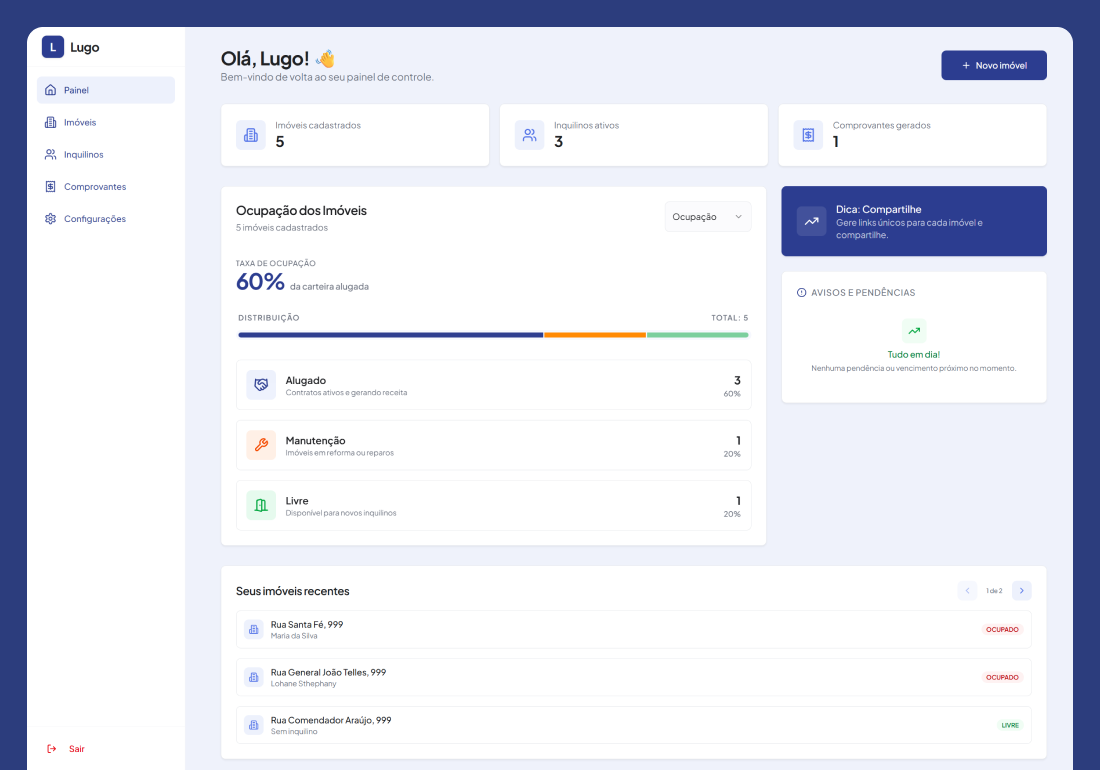
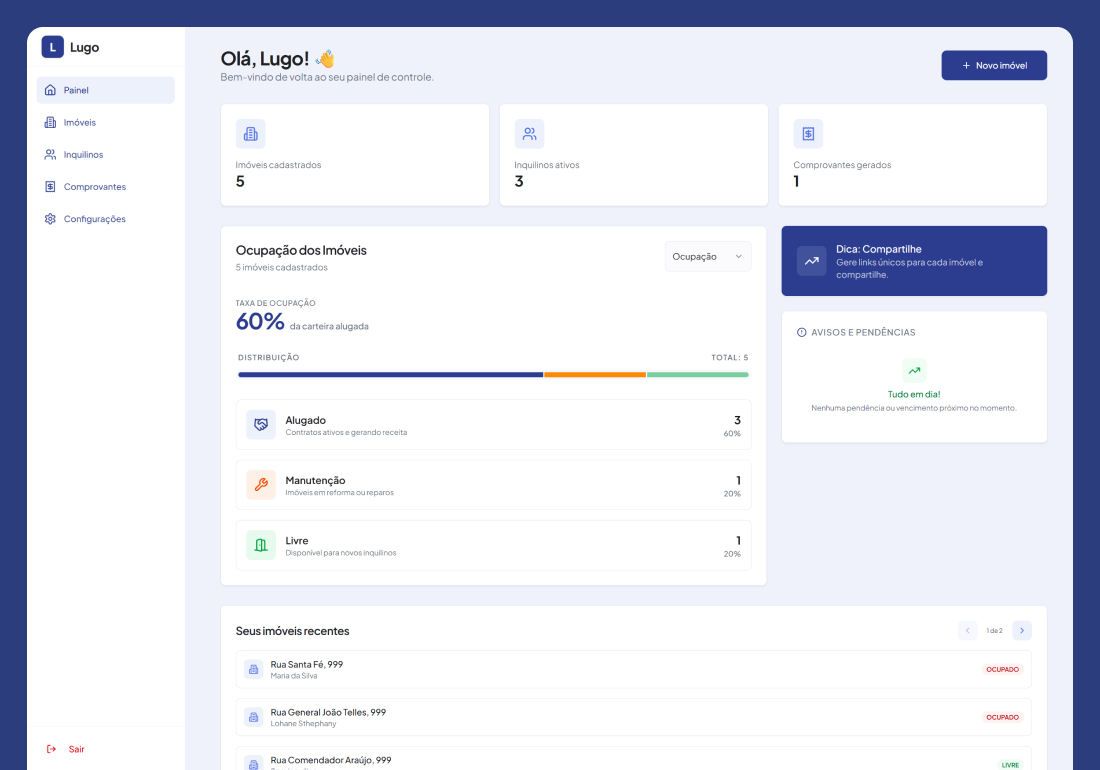
design: ajustado componentes de dashboard

diff --git a/src/components/dashboard/StatsCards.tsx b/src/components/dashboard/StatsCards.tsx
@@ -1,0 +1,136 @@
+"use client";
+
+import * as React from "react";
+import { cn } from "@/lib/utils";
+
+import {
+    Users,
+    Home,
+    FileText,
+    Building2,
+    Receipt
+} from "lucide-react";
+import { Card, CardContent } from "@/components/ui/card";
+import Link from "next/link";
+import {
+    Carousel,
+    CarouselContent,
+    CarouselItem,
+    type CarouselApi,
+} from "@/components/ui/carousel";
+
+interface StatsCardsProps {
+    stats: {
+        totalImoveis: number;
+        inquilinosAtivos: number;
+        comprovantesGerados: number;
+    }
+}
+
+export default function StatsCards({ stats }: StatsCardsProps) {
+    const statsData = [
+        { 
+            label: "Imóveis cadastrados", 
+            value: stats.totalImoveis.toString(), 
+            icon: Building2, 
+            href: "/dashboard/imoveis" 
+        },
+        { 
+            label: "Inquilinos ativos", 
+            value: stats.inquilinosAtivos.toString(), 
+            icon: Users, 
+            href: "/dashboard/inquilinos" 
+        },
+        { 
+            label: "Comprovantes gerados", 
+            value: stats.comprovantesGerados.toString(), 
+            icon: Receipt, 
+            href: "/dashboard/comprovantes" 
+        },
+    ];
+
+    const [api, setApi] = React.useState<CarouselApi>();
+    const [canScrollPrev, setCanScrollPrev] = React.useState(false);
+    const [canScrollNext, setCanScrollNext] = React.useState(true);
+
+    React.useEffect(() => {
+        if (!api) return;
+
+        setCanScrollPrev(api.canScrollPrev());
+        setCanScrollNext(api.canScrollNext());
+
+        api.on("select", () => {
+            setCanScrollPrev(api.canScrollPrev());
+            setCanScrollNext(api.canScrollNext());
+        });
+    }, [api]);
+
+    return (
+        <>
+            {/* Desktop View: Grid Layout */}
+            <div className="hidden md:grid gap-4 w-full grid-cols-3">
+                {statsData.map((stat) => (
+                    <Link key={stat.label} href={stat.href}>
+                        <Card className="group transition-all duration-300 hover:border-tertiary/30 h-full">
+                            <CardContent className="flex flex-col items-start gap-4 p-4 sm:p-6">
+                                <div className="flex h-10 w-10 sm:h-12 sm:w-12 items-center justify-center rounded-lg bg-primary/10 transition-colors group-hover:bg-tertiary/10">
+                                    <stat.icon className="h-5 w-5 sm:h-6 sm:w-6 text-primary" />
+                                </div>
+                                <div>
+                                    <p className="text-xs sm:text-sm text-muted-foreground">{stat.label}</p>
+                                    <p className="font-display text-xl sm:text-2xl font-bold">{stat.value}</p>
+                                </div>
+                            </CardContent>
+                        </Card>
+                    </Link>
+                ))}
+            </div>
+
+            {/* Mobile View: Carousel Layout */}
+            <div className="md:hidden relative w-full">
+                <Carousel
+                    opts={{
+                        align: "start",
+                        loop: false,
+                    }}
+                    setApi={setApi}
+                    className="w-full"
+                >
+                    <CarouselContent className="-ml-4">
+                        {statsData.map((stat) => (
+                            <CarouselItem key={stat.label} className="pl-4 basis-[85%]">
+                                <Link href={stat.href} className="h-full block">
+                                    <Card className="group transition-all duration-300 hover:border-tertiary/30 h-full">
+                                        <CardContent className="flex flex-col items-start gap-4 p-4">
+                                            <div className="flex h-10 w-10 items-center justify-center rounded-lg bg-primary/10 transition-colors group-hover:bg-tertiary/10">
+                                                <stat.icon className="h-5 w-5 text-primary" />
+                                            </div>
+                                            <div>
+                                                <p className="text-xs text-muted-foreground">{stat.label}</p>
+                                                <p className="font-display text-xl font-bold">{stat.value}</p>
+                                            </div>
+                                        </CardContent>
+                                    </Card>
+                                </Link>
+                            </CarouselItem>
+                        ))}
+                    </CarouselContent>
+                </Carousel>
+
+                {/* Mobile Gradient Masks */}
+                <div 
+                    className={cn(
+                        "absolute top-0 left-0 bottom-0 w-16 z-10 pointer-events-none transition-opacity duration-300 bg-linear-to-r from-card to-transparent",
+                        !canScrollNext && canScrollPrev ? "opacity-100" : "opacity-0"
+                    )} 
+                />
+                <div 
+                    className={cn(
+                        "absolute top-0 right-0 bottom-0 w-16 z-10 pointer-events-none transition-opacity duration-300 bg-linear-to-l from-card to-transparent",
+                        canScrollNext ? "opacity-100" : "opacity-0"
+                    )} 
+                />
+            </div>
+        </>
+    );
+}

diff --git a/src/components/dashboard/DashboardSections.tsx b/src/components/dashboard/DashboardSections.tsx
@@ -7,6 +7,7 @@ import { Building2, TrendingUp, AlertCircle, Clock, Plus } from "lucide-react";
 import Link from "next/link";
 import { cn } from "@/lib/utils";
 import CombinedDashboardClient from "./CombinedDashboardClient";
+import StatsCards from "./StatsCards";
 
 // --- Stats Section ---
 export async function StatsSection({ userId }: { userId: string }) {
@@ -27,37 +28,9 @@ export async function StatsSection({ userId }: { userId: string }) {
         comprovantesGerados: receiptsRes.count || 0,
     };
 
-    const statsData = [
-        { label: "Imóveis cadastrados", value: stats.totalImoveis.toString(), icon: Building2, href: "/dashboard/imoveis" },
-        { label: "Inquilinos ativos", value: stats.inquilinosAtivos.toString(), icon: UsersSectionIcon, href: "/dashboard/inquilinos" },
-        { label: "Comprovantes gerados", value: stats.comprovantesGerados.toString(), icon: ReceiptSectionIcon, href: "/dashboard/comprovantes" },
-    ];
-
-    return (
-        <div className="grid gap-4 grid-cols-1 md:grid-cols-3">
-            {statsData.map((stat) => (
-                <Link key={stat.label} href={stat.href}>
-                    <Card className="group transition-all duration-300 hover:border-tertiary/30">
-                        <CardContent className="flex items-center gap-4 p-4 sm:p-6">
-                            <div className="flex h-10 w-10 sm:h-12 sm:w-12 items-center justify-center rounded-lg bg-primary/10 transition-colors group-hover:bg-tertiary/10">
-                                <stat.icon className="h-5 w-5 sm:h-6 sm:w-6 text-primary" />
-                            </div>
-                            <div>
-                                <p className="text-xs sm:text-sm text-muted-foreground">{stat.label}</p>
-                                <p className="font-display text-xl sm:text-2xl font-bold">{stat.value}</p>
-                            </div>
-                        </CardContent>
-                    </Card>
-                </Link>
-            ))}
-        </div>
-    );
+    return <StatsCards stats={stats} />;
 }
 
-// Icons for Stats (Local helpers to avoid importing the whole lucide-react in every sub-component)
-import { Users, Receipt } from "lucide-react";
-const UsersSectionIcon = Users;
-const ReceiptSectionIcon = Receipt;
 
 // --- Combined Revenue & Occupancy Section ---
 export async function CombinedRevenueOccupancySection({ userId }: { userId: string }) {

diff --git a/src/components/dashboard/CombinedDashboardClient.tsx b/src/components/dashboard/CombinedDashboardClient.tsx
@@ -35,7 +35,7 @@ export default function CombinedDashboardClient({
     revenueData, 
     occupancyData 
 }: CombinedDashboardClientProps) {
-    const [view, setView] = useState<"revenue" | "occupancy">("revenue");
+    const [view, setView] = useState<"revenue" | "occupancy">("occupancy");
 
     const currentMonthRevenue = revenueData.length > 0 
         ? revenueData[revenueData.length - 1].total 
@@ -46,12 +46,12 @@ export default function CombinedDashboardClient({
             <CardHeader className="pb-4 space-y-0 flex flex-row items-start justify-between">
                 <div className="space-y-1">
                     <CardTitle className="text-xl font-display font-semibold tracking-tight">
-                        {view === "revenue" ? "Visão Financeira" : "Ocupação dos Imóveis"}
+                        {view === "occupancy" ? "Ocupação dos Imóveis" : "Visão Financeira"}
                     </CardTitle>
                     <p className="text-sm text-muted-foreground">
-                        {view === "revenue" 
-                            ? "Receita bruta dos últimos 6 meses" 
-                            : `${occupancyData.total} imóveis cadastrados`}
+                        {view === "occupancy" 
+                            ? `${occupancyData.total} imóveis cadastrados` 
+                            : "Receita bruta dos últimos 6 meses"}
                     </p>
                 </div>
                 <Select
@@ -62,8 +62,8 @@ export default function CombinedDashboardClient({
                         <SelectValue placeholder="Selecione a visão" />
                     </SelectTrigger>
                     <SelectContent>
-                        <SelectItem value="revenue">Financeiro</SelectItem>
                         <SelectItem value="occupancy">Ocupação</SelectItem>
+                        <SelectItem value="revenue">Financeiro</SelectItem>
                     </SelectContent>
                 </Select>
             </CardHeader>
